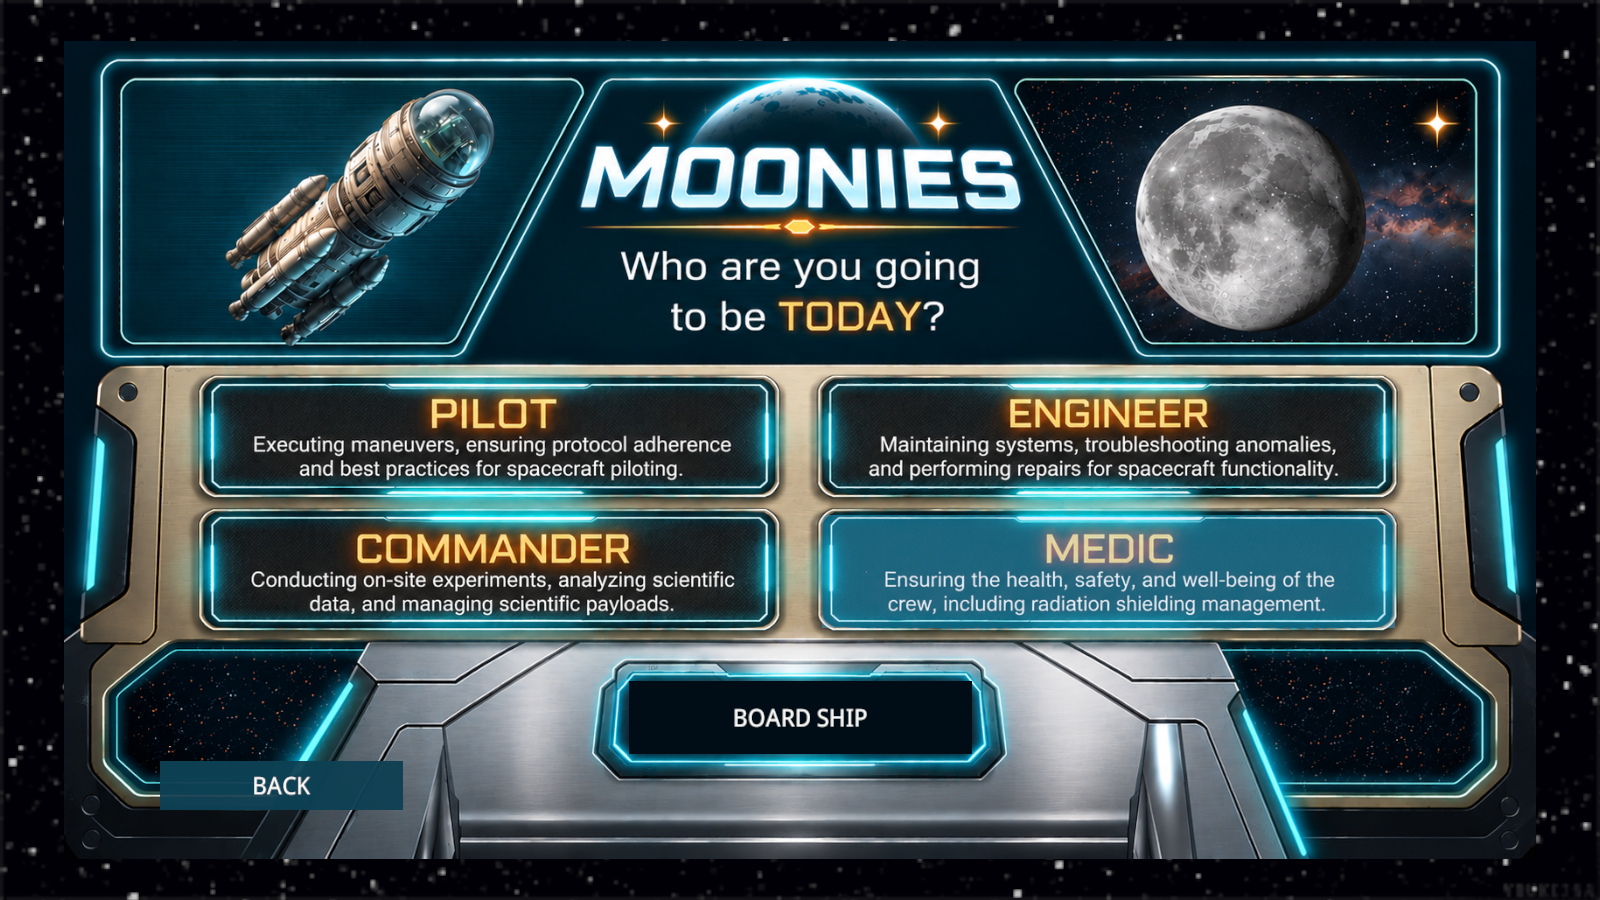
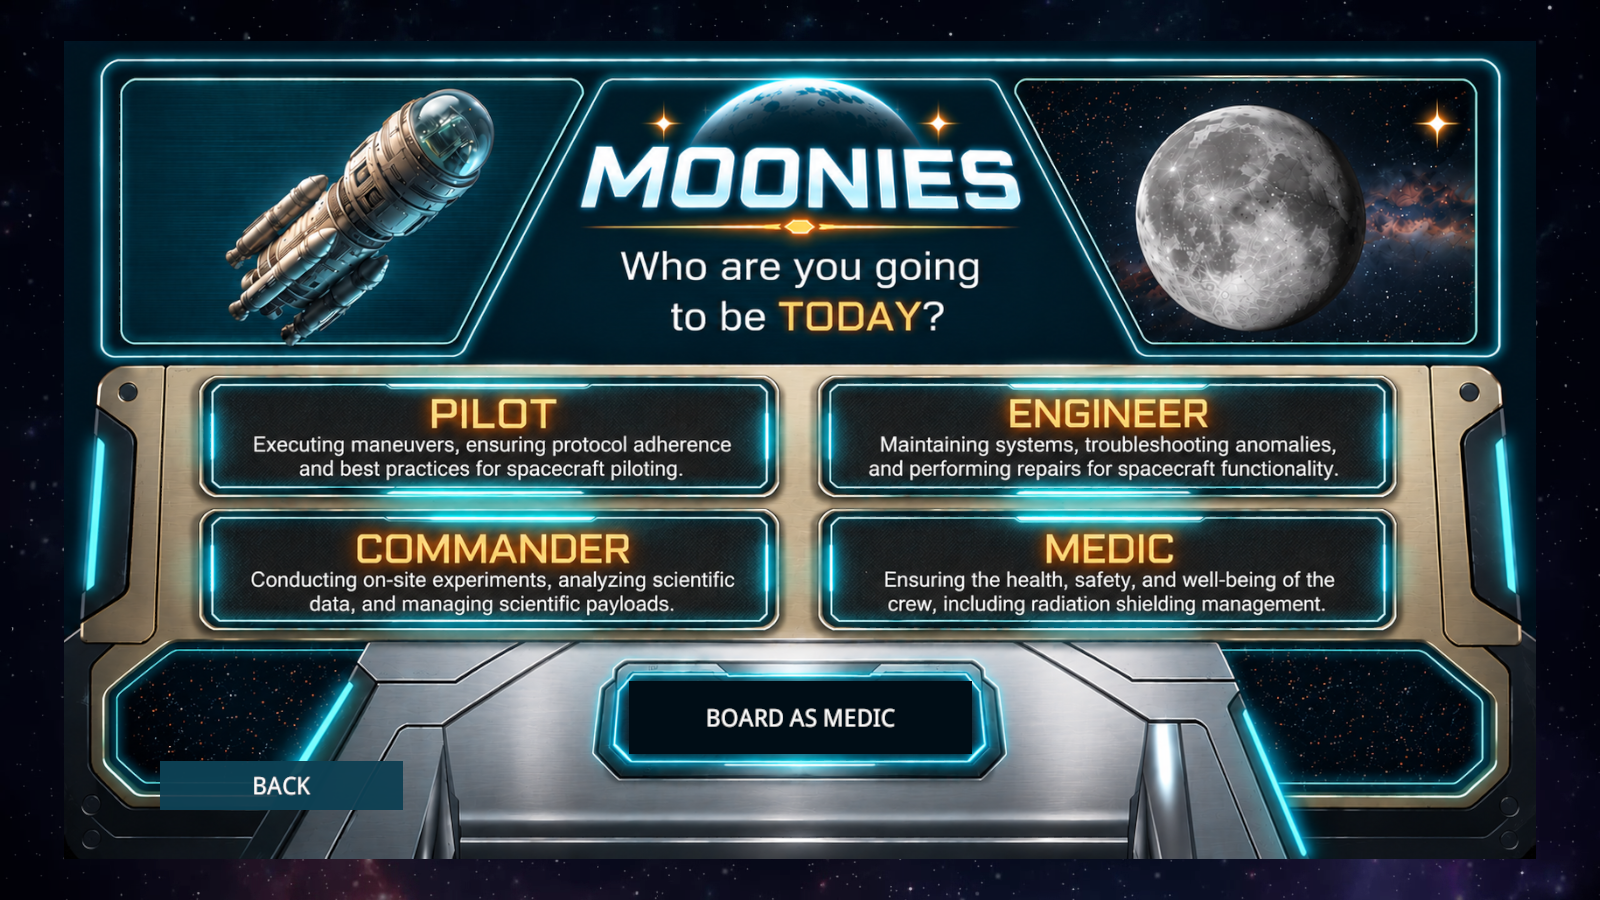
Remove menu blue tint and soften Bridge guidance

diff --git a/Assets/Scripts/CrewMenu.cs b/Assets/Scripts/CrewMenu.cs
@@ -28,6 +28,8 @@ public sealed class CrewMenu : MonoBehaviour
     private GameObject missionCardShade, missionCard, missionTaskProgressTrack;
     private Image missionTaskProgress;
     private ShipMissionDefinition selectedMission;
+    private ShipMissionDefinition bridgeCheck;
+    private GameObject bridgeSuggestion;
     private Font font;
     private int selected;
     private float missionElapsed;
@@ -76,12 +78,8 @@ public sealed class CrewMenu : MonoBehaviour
         var startHit = Panel(artwork.transform, "START", new Vector2(.30f,.30f), new Vector2(.70f,.51f), new Color(1,1,1,0));
         var startButton = startHit.gameObject.AddComponent<Button>();
         startButton.onClick.AddListener(() => ShowRoles(true));
-        var startColors = startButton.colors;
-        startColors.normalColor = Color.clear;
-        startColors.highlightedColor = new Color(.2f,.9f,1,.16f);
-        startColors.selectedColor = startColors.highlightedColor;
-        startButton.colors = startColors;
-        startHit.color = Color.white;
+        startButton.transition=Selectable.Transition.None;
+        startHit.color=Color.clear;
         startHit.canvasRenderer.cullTransparentMesh=false;
         roles = Node("Role Selection", root.transform, Vector2.zero, Vector2.one).gameObject;
         var roleBounds = Node("Role Artwork Bounds", roles.transform, new Vector2(.04f,.04f), new Vector2(.96f,.96f));
@@ -114,6 +112,15 @@ public sealed class CrewMenu : MonoBehaviour
         missionProgress.fillAmount = 0;
         missionHint = Label(missionHud.transform, "", .20f,.105f,.80f,.15f,18,cyan);
         missionHint.gameObject.SetActive(false);
+        var hintGold=new Color(1,.82f,.24f,1);
+        bridgeSuggestion=Panel(missionHud.transform,"Bridge Suggestion",new Vector2(.27f,.155f),new Vector2(.73f,.208f),hintGold).gameObject;
+        bridgeSuggestion.GetComponent<Image>().raycastTarget=false;
+        var hintBacking=Panel(bridgeSuggestion.transform,"Opaque Hint Backing",Vector2.zero,Vector2.one,new Color(.045f,.035f,.015f,1));
+        hintBacking.raycastTarget=false;
+        hintBacking.rectTransform.offsetMin=new Vector2(2,2);hintBacking.rectTransform.offsetMax=new Vector2(-2,-2);
+        Label(bridgeSuggestion.transform,"Maybe it's a good idea to check the Bridge.",.025f,.05f,.975f,.95f,16,hintGold);
+        bridgeSuggestion.SetActive(false);
+        bridgeCheck=Resources.Load<ShipMissionDefinition>("Missions/G01_LEO_Check");
         missionCardShade = Panel(missionHud.transform,"Mission Card Shade",Vector2.zero,Vector2.one,new Color(.005f,.015f,.03f,.82f)).gameObject;
         missionCard = Panel(missionHud.transform,"Mission Briefing",new Vector2(.18f,.18f),new Vector2(.82f,.82f),new Color(.015f,.055f,.08f,.99f)).gameObject;
         missionCardTitle = Label(missionCard.transform,"",.05f,.82f,.95f,.96f,34,cyan);
@@ -148,6 +155,7 @@ public sealed class CrewMenu : MonoBehaviour
         {
             if(mission.IsPaused) return;
             UpdateMissionHint();
+            UpdateBridgeSuggestion();
             if (missionCard.activeSelf) UpdateMissionCard();
             missionElapsed = Mathf.Min(missionElapsed + Time.deltaTime, MissionGoalSeconds);
             int seconds = Mathf.FloorToInt(missionElapsed);
@@ -209,10 +217,10 @@ public sealed class CrewMenu : MonoBehaviour
     private void Select(int index)
     {
         selected = index;
-        for (int i = 0; i < cards.Length; i++) cards[i].color = i == index ? new Color(.15f,.8f,1,.22f) : Color.clear;
+        for (int i = 0; i < cards.Length; i++) cards[i].color = Color.clear;
         status.text = "";
         status.gameObject.SetActive(false);
-        confirmText.text = "BOARD SHIP";
+        confirmText.text = "BOARD AS " + names[index].ToUpperInvariant();
     }
     private void Confirm()
     {
@@ -235,6 +243,7 @@ public sealed class CrewMenu : MonoBehaviour
             home.SetActive(false); roles.SetActive(false);
             shade.gameObject.SetActive(false); backgroundCanvas.gameObject.SetActive(false);
             missionHud.SetActive(true);
+            UpdateBridgeSuggestion();
         }
         catch (System.Exception error)
         {
@@ -250,6 +259,7 @@ public sealed class CrewMenu : MonoBehaviour
         cards[role]=image;
         image.canvasRenderer.cullTransparentMesh=false;
         var button=image.gameObject.AddComponent<Button>();
+        button.transition=Selectable.Transition.None;
         button.onClick.AddListener(()=>Select(role));
     }
     private void TogglePause()
@@ -276,9 +286,16 @@ public sealed class CrewMenu : MonoBehaviour
         if (missionHint.gameObject.activeSelf != visible) missionHint.gameObject.SetActive(visible);
         if (visible && missionHint.text != hint) missionHint.text = hint;
     }
+    private void UpdateBridgeSuggestion()
+    {
+        bool visible=mission!=null && bridgeCheck!=null && bridgeCheck.AllowsRole(SelectedRole)
+            && mission.GetMissionStatus(bridgeCheck)==ShipMissionStatus.Available && !missionCard.activeSelf;
+        if(bridgeSuggestion.activeSelf!=visible) bridgeSuggestion.SetActive(visible);
+    }
     private void OpenMissionCard(ShipMissionDefinition definition)
     {
         selectedMission = definition;
+        bridgeSuggestion.SetActive(false);
         mission.SetPaused(true);
         missionCardShade.SetActive(true);
         missionCard.SetActive(true);
@@ -311,7 +328,7 @@ public sealed class CrewMenu : MonoBehaviour
                 : "CHECK PAUSED  ·  RETURN TO " + selectedMission.locationName.ToUpperInvariant();
         }
         else if (state == ShipMissionStatus.Completed) missionCardStatus.text = "SYSTEMS CHECK COMPLETE";
-        else if (state == ShipMissionStatus.Skipped) missionCardStatus.text = "CHECK SKIPPED  ·  THE FAULT REMAINS UNCHECKED";
+        else if (state == ShipMissionStatus.Skipped) missionCardStatus.text = "CHECK SKIPPED";
         else if (state == ShipMissionStatus.Expired) missionCardStatus.text = "MISSION WINDOW CLOSED";
         else missionCardStatus.text = "START THE CHECK OR SKIP THIS MISSION";
     }
@@ -376,7 +393,7 @@ public sealed class CrewMenu : MonoBehaviour
     private Text Button(Transform parent, string value, float x, float y, float xx, float yy, UnityEngine.Events.UnityAction action)
     {
         var image = Panel(parent, value, new Vector2(x,y), new Vector2(xx,yy), new Color(.05f,.25f,.32f,.98f));
-        var button = image.gameObject.AddComponent<Button>(); button.onClick.AddListener(action);
+        var button = image.gameObject.AddComponent<Button>(); button.transition=Selectable.Transition.None; button.onClick.AddListener(action);
         var colors = button.colors; colors.highlightedColor = new Color(.6f,1,1); colors.selectedColor = colors.highlightedColor; button.colors = colors;
         return Label(image.transform, value, .03f,.05f,.97f,.95f, 23, Color.white);
     }

diff --git a/Tools/ValidateMenuHint.cs b/Tools/ValidateMenuHint.cs
@@ -1,0 +1,48 @@
+void Check(bool ok,string message){if(!ok)throw new System.Exception(message);}
+var menu=UnityEngine.Object.FindAnyObjectByType<CrewMenu>();
+var flags=System.Reflection.BindingFlags.NonPublic|System.Reflection.BindingFlags.Instance;
+var camera=UnityEngine.Camera.main;var target=new UnityEngine.RenderTexture(1600,900,24);camera.targetTexture=target;
+var canvases=UnityEngine.Object.FindObjectsByType<UnityEngine.Canvas>(UnityEngine.FindObjectsInactive.Include);
+foreach(var canvas in canvases){canvas.renderMode=UnityEngine.RenderMode.ScreenSpaceCamera;canvas.worldCamera=camera;canvas.planeDistance=canvas.sortingOrder<0?3:1;}
+void Render(){UnityEngine.Canvas.ForceUpdateCanvases();camera.Render();}
+void Capture(string name){Render();UnityEngine.RenderTexture.active=target;var image=new UnityEngine.Texture2D(1600,900,UnityEngine.TextureFormat.RGB24,false);image.ReadPixels(new UnityEngine.Rect(0,0,1600,900),0,0);image.Apply();System.IO.File.WriteAllBytes(System.IO.Path.Combine(System.IO.Path.GetTempPath(),name),image.EncodeToPNG());UnityEngine.Object.Destroy(image);}
+void Click(string name,bool invisible=false){
+ Render();var button=UnityEngine.Object.FindObjectsByType<UnityEngine.UI.Button>().Single(x=>x.name==name);var graphic=button.GetComponent<UnityEngine.UI.Image>();
+ if(invisible)Check(button.transition==UnityEngine.UI.Selectable.Transition.None&&graphic.color.a==0,"Visible tint: "+name);
+ var rect=button.GetComponent<UnityEngine.RectTransform>();var data=new UnityEngine.EventSystems.PointerEventData(UnityEngine.EventSystems.EventSystem.current){position=UnityEngine.RectTransformUtility.WorldToScreenPoint(camera,rect.TransformPoint(rect.rect.center)),button=UnityEngine.EventSystems.PointerEventData.InputButton.Left};
+ var hits=new System.Collections.Generic.List<UnityEngine.EventSystems.RaycastResult>();UnityEngine.EventSystems.EventSystem.current.RaycastAll(data,hits);Check(hits.Count>0&&hits[0].gameObject==button.gameObject,"Incorrect click target: "+name);
+ UnityEngine.EventSystems.ExecuteEvents.Execute(button.gameObject,data,UnityEngine.EventSystems.ExecuteEvents.pointerEnterHandler);
+ UnityEngine.EventSystems.EventSystem.current.SetSelectedGameObject(button.gameObject);
+ UnityEngine.EventSystems.ExecuteEvents.Execute(button.gameObject,data,UnityEngine.EventSystems.ExecuteEvents.pointerDownHandler);
+ if(invisible)Check(graphic.color.a==0,"Hover/focus/press adds tint: "+name);
+ UnityEngine.EventSystems.ExecuteEvents.Execute(button.gameObject,data,UnityEngine.EventSystems.ExecuteEvents.pointerUpHandler);
+ UnityEngine.EventSystems.ExecuteEvents.Execute(button.gameObject,data,UnityEngine.EventSystems.ExecuteEvents.pointerClickHandler);
+ if(invisible)Check(graphic.color.a==0,"Selected state adds tint: "+name);
+}
+try{
+ Capture("start-no-tint.png");Click("START",true);
+ foreach(string role in new[]{"Pilot","Engineer","Commander","Medic"})Click("Choose "+role,true);
+ Capture("roles-no-tint.png");Click("BOARD SHIP");
+ var mission=UnityEngine.Object.FindAnyObjectByType<ShipMission>();Check(mission!=null,"Boarding failed");
+ var suggestion=(UnityEngine.GameObject)typeof(CrewMenu).GetField("bridgeSuggestion",flags).GetValue(menu);
+ Check(suggestion.activeInHierarchy,"Bridge suggestion absent while check is available");
+ Check(suggestion.GetComponent<UnityEngine.UI.Image>().color.a==1,"Suggestion border is not opaque");
+ var backing=suggestion.transform.Find("Opaque Hint Backing").GetComponent<UnityEngine.UI.Image>();Check(backing.color.a==1,"Hint backing is not opaque");
+ var text=suggestion.GetComponentInChildren<UnityEngine.UI.Text>();Check(text.text=="Maybe it's a good idea to check the Bridge."&&text.color.r>text.color.b&&text.fontSize<=16,"Hint wording/color/size incorrect");
+ Capture("bridge-suggestion.png");
+ var definition=UnityEngine.Resources.Load<ShipMissionDefinition>("Missions/G01_LEO_Check");
+ Check(!definition.briefing.Contains("fault")&&!definition.briefing.Contains("trouble"),"Briefing still threatens consequences");
+ var player=UnityEngine.Object.FindAnyObjectByType<CrewCharacter>();player.transform.position=new UnityEngine.Vector3(definition.WorldPosition.x,definition.WorldPosition.y,-1);typeof(ShipMission).GetField("deck",flags).SetValue(mission,definition.deck);mission.SendMessage("UpdateNearbyMission");
+ menu.SendMessage("OpenMissionCard",definition);Check(!suggestion.activeSelf,"Suggestion overlaps mission card");
+ menu.SendMessage("SkipSelectedMission");
+ var status=(UnityEngine.UI.Text)typeof(CrewMenu).GetField("missionCardStatus",flags).GetValue(menu);Check(status.text=="CHECK SKIPPED","Skip status still warns about consequences");
+ menu.SendMessage("CloseMissionCard");menu.SendMessage("Update");Check(!suggestion.activeSelf,"Suggestion remains after skipped check");
+ menu.SendMessage("ReturnToMenu");await System.Threading.Tasks.Task.Delay(100);
+ menu.SendMessage("Confirm");mission=UnityEngine.Object.FindAnyObjectByType<ShipMission>();player=UnityEngine.Object.FindAnyObjectByType<CrewCharacter>();
+ player.transform.position=new UnityEngine.Vector3(definition.WorldPosition.x,definition.WorldPosition.y,-1);typeof(ShipMission).GetField("deck",flags).SetValue(mission,definition.deck);mission.SendMessage("UpdateNearbyMission");
+ menu.SendMessage("OpenMissionCard",definition);menu.SendMessage("StartSelectedMission");mission.SendMessage("UpdateActiveMission",definition.durationSeconds);menu.SendMessage("CloseMissionCard");menu.SendMessage("Update");
+ Check(mission.GetMissionStatus(definition)==ShipMissionStatus.Completed&&!suggestion.activeSelf,"Suggestion remains after completion");
+ return "PASS: START and four roles remain clickable with no hover/focus/pressed/selected blue tint; opaque yellow Bridge hint; neutral briefing/skip; hint hides for card, skip and completion";
+}finally{
+ camera.targetTexture=null;UnityEngine.RenderTexture.active=null;foreach(var canvas in canvases){if(canvas!=null){canvas.renderMode=UnityEngine.RenderMode.ScreenSpaceOverlay;canvas.worldCamera=null;}}target.Release();UnityEngine.Object.Destroy(target);
+}

diff --git a/Artifacts/ship-validation.md b/Artifacts/ship-validation.md
@@ -17,3 +17,5 @@ Renders: ship-check.png, ship-ladder.png, role-selection.png, modern-with-progre
 Integrated origin/adrian commit 5b191c62: updated starfield and playback timing, and progress color transitioning from cyan to gold. Pause remains intact.
 
 Current ladder regression: continuous W/S passes the middle deck without detaching; A/D is the only exit command beside a floor. Entry alignment and horizontal exit move at bounded speed, never teleport. No-input movement holds position. A fixed Idle pose eliminates frame-to-frame visual drift; 200 idle updates were checked for each role. New holographic role artwork is used with Commander/Pilot/Engineer/Medic click areas.
+
+Menu/Bridge guidance: START and all four role hit areas remain clickable with no hover, focus, pressed or selected fill. The Bridge suggestion is yellow on an opaque backing/border, appears only while the check is available, and hides for the mission card, skip and completion. Briefing and skip status no longer describe negative consequences. Validated with Tools/ValidateMenuHint.cs.
